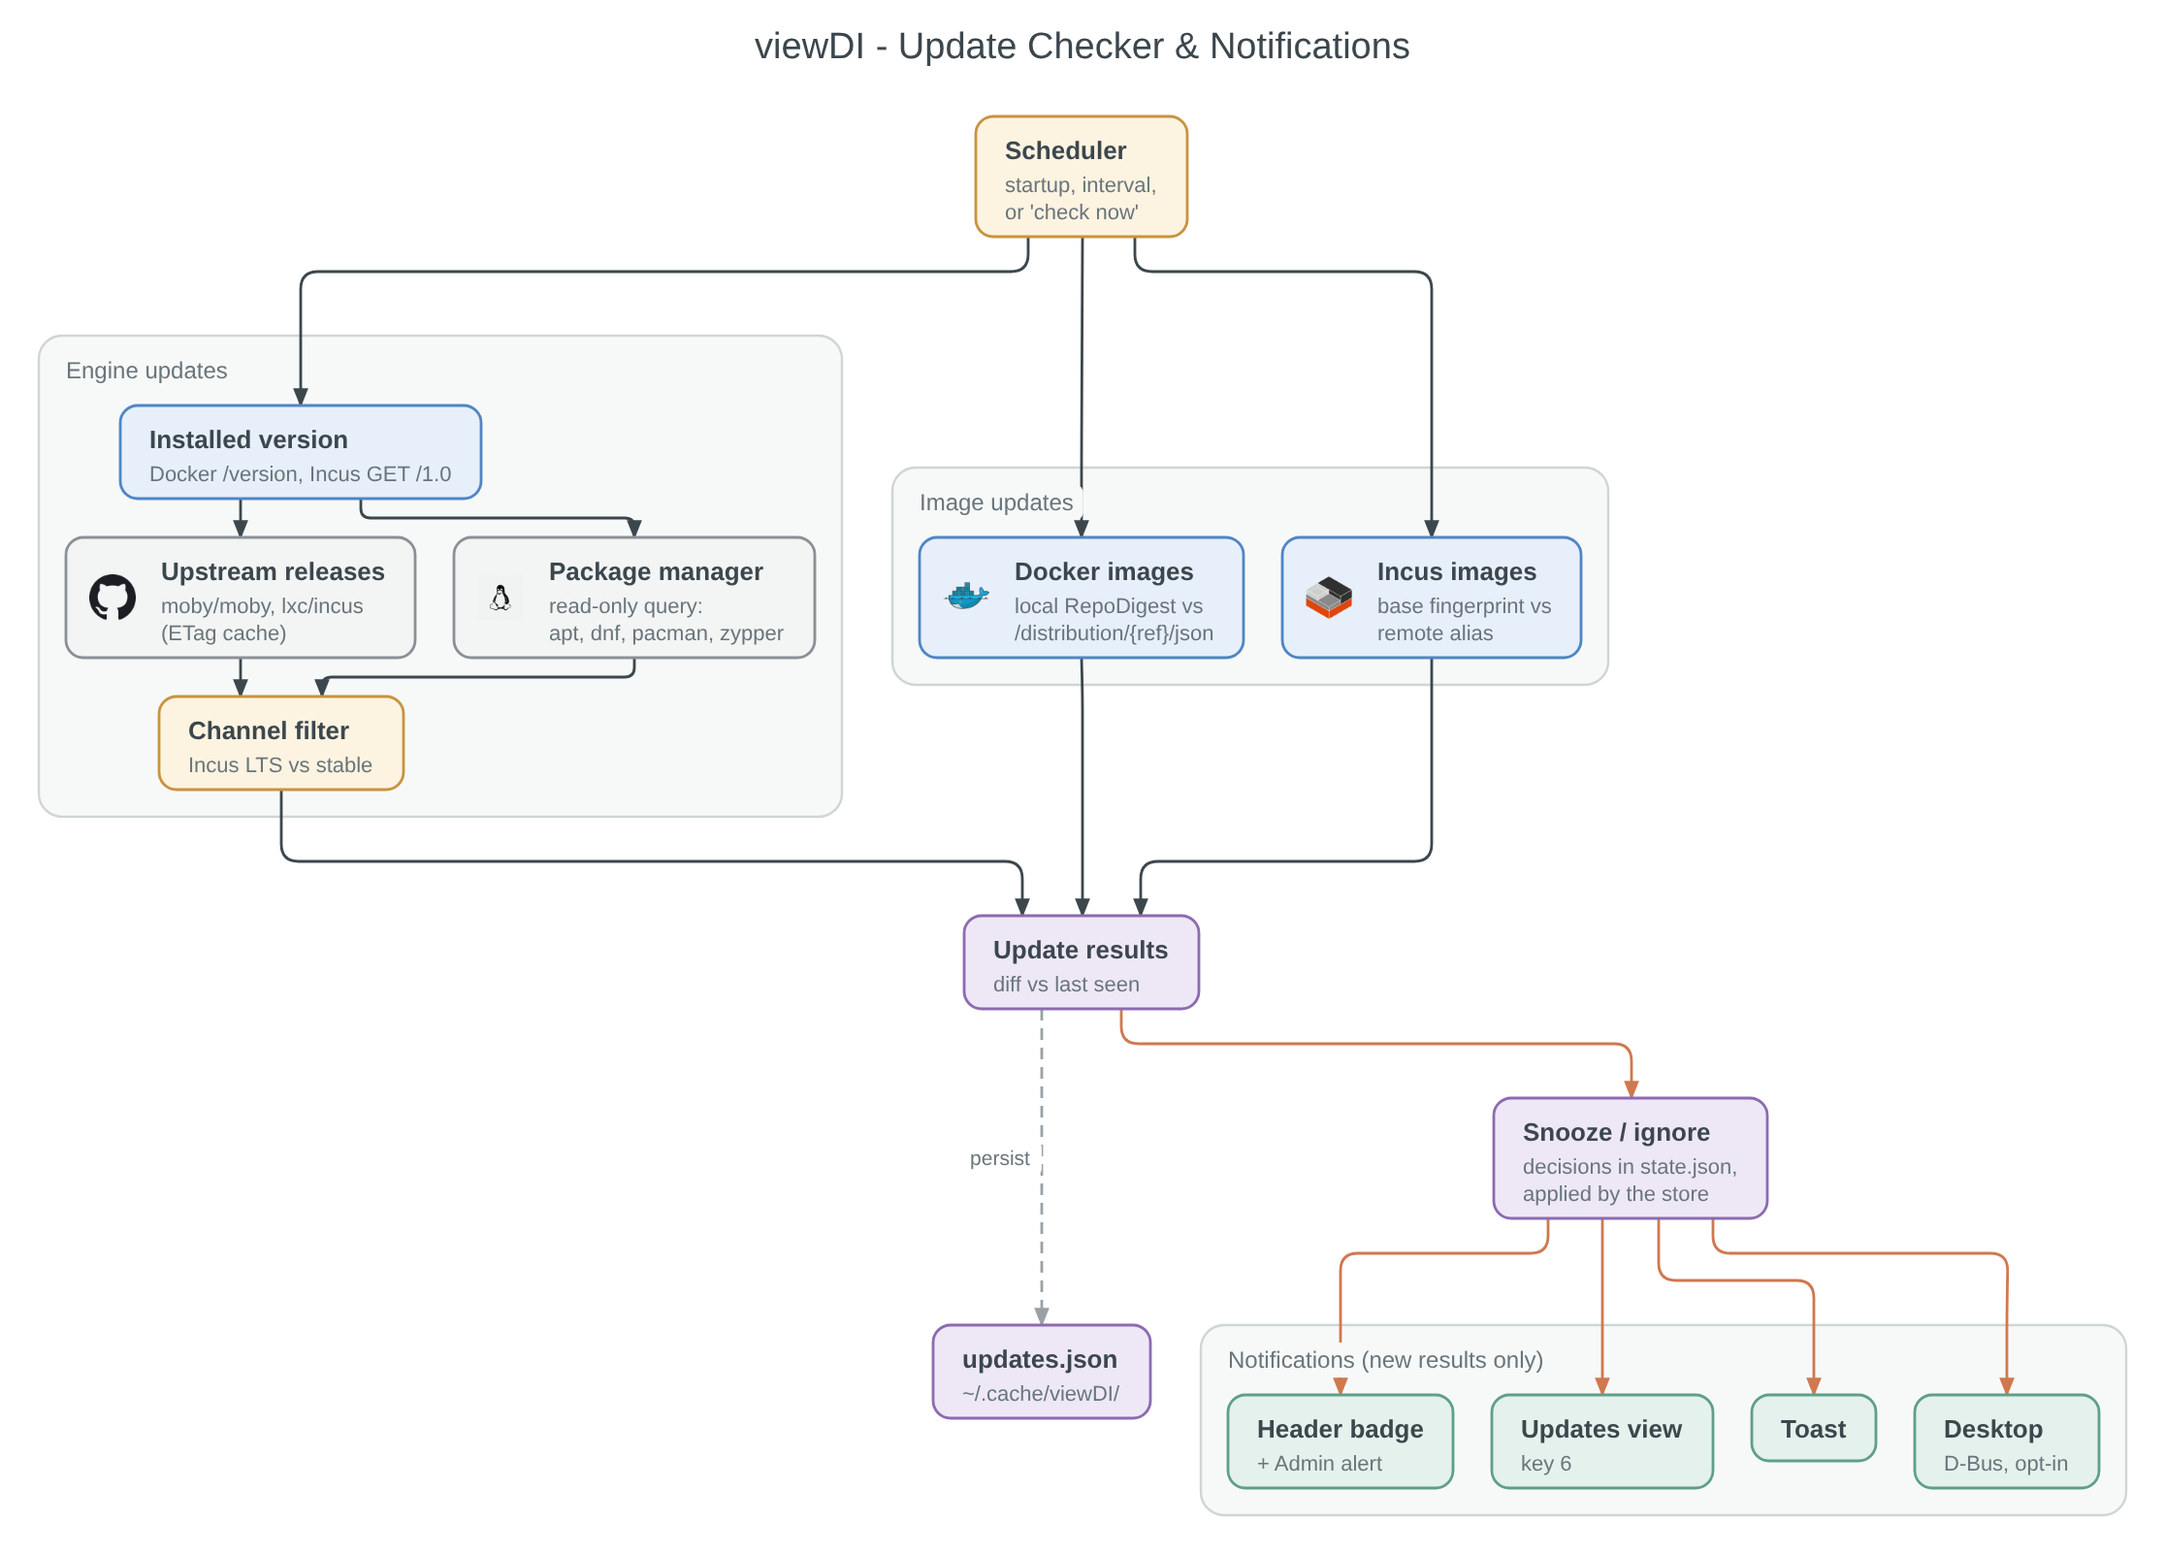
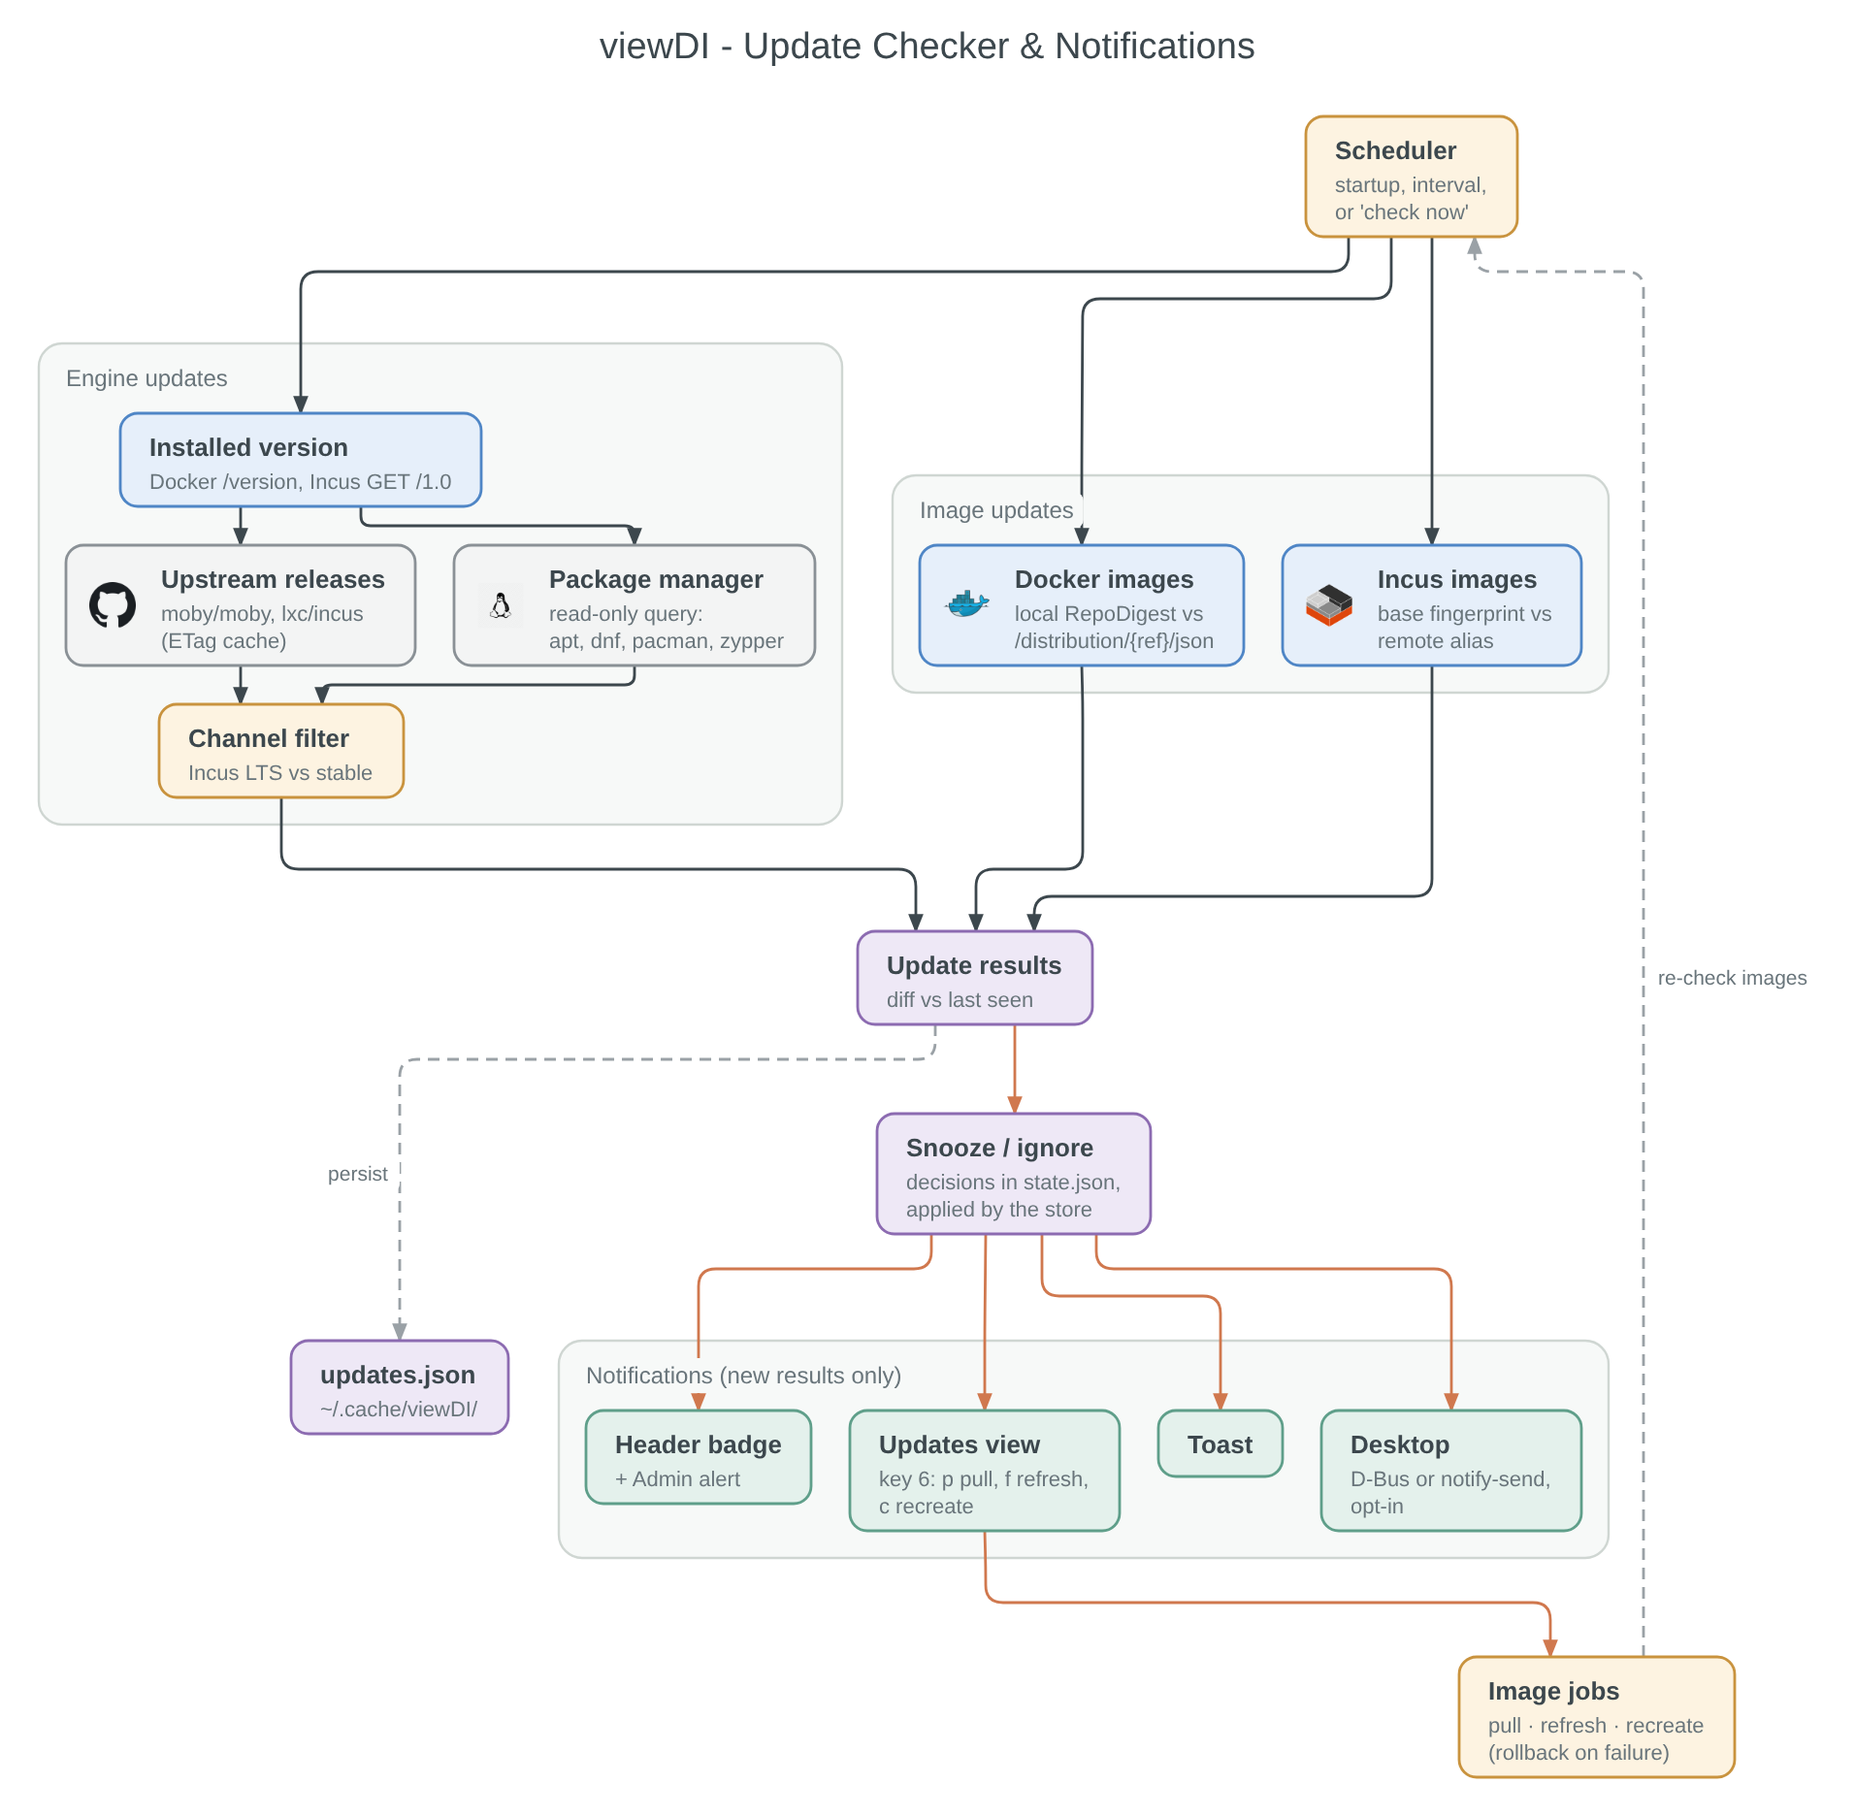
docs: stage 6b — image actions, recreate, desktop notifications

diff --git a/docs/03-mockups.md b/docs/03-mockups.md
@@ -378,6 +378,62 @@ Incus 6.0.6 (security), 3 images · 6 for details" and is never repeated.
 ╰──────────────────────────────────────────────────────────────────────────────────────────────────────────────────────╯
 ```
 
+As delivered in Stage 6b (`--mock`, 120×40, after `p` on `nginx:1.27`). `p` pulls a
+Docker image, `f` refreshes an Incus image (the instances keep running on their own
+copy until they are rebuilt), `c` recreates the Docker containers on the new build. A
+pulled image whose containers still run the old build stays listed as
+`pulled · recreate`; once recreated, the image check runs again and the row goes away.
+Compose containers are never recreated here: the footer prints the
+`docker compose up -d` hint instead.
+
+```
+│   ENGINE IMAGE                             INSTANCES              CURRENT → AVAILABLE             STATUS             │
+│ ⬆ dock   ghcr.io/me/api:1.4                web-api                e710618204df → a1b69359dd33     compose            │
+│ ⬆ dock   nginx:1.27                        nginx-proxy            running → pulled 120f57a4ad65   pulled · recreate  │
+│ ⬆ incus  images:debian/bookworm/default    web-lab, ci-runner     20261020_05:24 → 20261028_05:24                    │
+│                                                                                                                      │
+│ pulled    sha256:120f57a4ad650d5809f2fbf5cbbbd48b76d3b4df5225abf4040860498e25428d                                    │
+│ stale     nginx-proxy                                                                                                │
+│ actions   c recreate the containers on the pulled build                                                              │
+╰──────────────────────────────────────────────────────────────────────────────────────────────────────────────────────╯
+ enter release notes  p pull image  f refresh image  c recreate  z snooze  I ignore version                     ? help
+```
+
+`c` first shows what is kept, then asks to confirm (80×24 frame). The recreate job pulls,
+stops, renames the container `<name>-old`, creates and starts the new one and removes
+the old one only once the new one runs; on any failure the old one gets its name back
+and is started again (Jobs shows `rolling back`).
+
+```
+╭───────────────────────────────────────────────────────────────────╮
+│                                                                   │
+│  Recreate 1 container on nginx:1.27                               │
+│                                                                   │
+│  image    nginx:1.27  00a214c9e65b → 120f57a4ad65 (pulled first)  │
+│                                                                   │
+│  nginx-proxy  kept:                                               │
+│    name     nginx-proxy                                           │
+│    env      0 variables (values not shown)                        │
+│    ports    80→80/tcp, 443→443/tcp                                │
+│    mounts   none                                                  │
+│    networks bridge                                                │
+│    restart  always                                                │
+│    labels   0 labels                                              │
+│                                                                   │
+│  The new build's defaults (CMD, ENV, labels) apply where          │
+│  the container never set its own.                                 │
+│                                                                   │
+│   Cancel    Continue                                              │
+│                                                                   │
+│  y confirm · n/esc cancel · tab switch                            │
+╰───────────────────────────────────────────────────────────────────╯
+```
+
+Desktop notifications (opt-in: `[updates] notify_desktop = true`; in `--mock` only with
+`--mock-notify`) carry the same diff as the toast, filtered by `notify_min_level`:
+"viewDI: 2 updates available", one line per update (at most 8), "Press 6 in viewDI for
+details.", critical urgency when one is a security release.
+
 ## M7 — Modals
 
 ```

diff --git a/README.md b/README.md
@@ -3,7 +3,7 @@
 A native Linux terminal UI that manages, visualises and monitors **Docker** and **Incus**
 side by side.
 
-> Status: **Stage 6a** — both engines connected with live metrics: Admin and Resources
+> Status: **Stage 6b** — both engines connected with live metrics: Admin and Resources
 > dashboards, a sortable, filterable Table view, an interactive Tree view (`4`: engines →
 > networks, projects or Compose projects → instances → ports and mounts, with an
 > inspector that follows the cursor, plus labs: blocks of machines from both engines
@@ -12,10 +12,11 @@ side by side.
 > delete with a confirmation dialog), create forms for Docker containers and Incus
 > containers/VMs, and imports of image tarballs and backups, all tracked with progress
 > in the Jobs view (`5`), and update discovery (`6`): new Docker and Incus releases and
-outdated container images, with a header badge, markers, alerts and a toast. See
+outdated container images, with a header badge, markers, alerts and a toast, image pulls
+and refreshes, Docker recreates with rollback, and opt-in desktop notifications. See
 `docs/04-development-plan.md`.
 
-![Stage 6a demo](docs/demos/stage-6a.gif)
+![Stage 6b demo](docs/demos/stage-6b.gif)
 
 ## Build and run
 
@@ -48,7 +49,11 @@ and `c` cancels one. `n` creates a container or VM: a form with local image sugg
 limits and more. `i` imports a Docker image or rootfs tarball, an Incus backup or an
 Incus image through a file picker. In Updates (`6`): `enter` opens the release notes,
 `z` snoozes an update for 7 days, `I` ignores this version (press again to undo), `U`
-checks now from any view. `--read-only` disables every action. `--mock=chaos` cycles through daemon failures,
+checks now from any view; `p` pulls a Docker image, `f` refreshes an Incus image, `c`
+recreates the Docker containers of an image on the new build after showing what is kept
+(name, env, ports, mounts, networks, restart policy, labels) — if anything fails the
+original container gets its name back and runs again. Compose containers get the
+`docker compose up -d` hint instead. `--read-only` disables every action. `--mock=chaos` cycles through daemon failures,
 `--mock=logflood` floods a log at 1 000 lines/s.
 
 Metrics are read from cgroup v2 files when possible (one pass for every container) and
@@ -62,6 +67,9 @@ are compared by registry digest (Docker, through the daemon, so `docker login` a
 or simplestreams fingerprint (Incus). viewDI never installs anything: it shows the exact
 upgrade command. `[updates] enabled = false` turns every check, and every network call,
 off. `--mock` uses fake sources; `--mock=offline` fails every check.
+`notify_desktop = true` adds a desktop notification for each new batch of updates at or
+above `notify_min_level` (D-Bus, then `notify-send`); `--mock --mock-notify` tries it
+with the fake sources.
 
 Daemons are discovered automatically (`--docker-host`/`DOCKER_HOST`, rootless then
 rootful Docker; `--incus-socket`/`INCUS_SOCKET`, then `unix.socket`, then

diff --git a/CLAUDE.md b/CLAUDE.md
@@ -35,8 +35,8 @@ Design documents (read before making structural changes):
 - `docs/diagrams/src/*.json` — source of every diagram in `docs/img/` (rendered by
   `docs/diagrams/render.mjs`).
 
-Current phase: **Stage 6b in progress** (Updates, split 6a `v0.7.0` / 6b
-`v0.7.1`). Stages 0–4a are tagged up to `v0.5.0`; 4b (create and import flows) is `v0.5.1`,
+Current phase: **Stage 6b done, in review** (Updates, split 6a `v0.7.0` / 6b
+`v0.7.1`); Stage 7 next. Stages 0–4a are tagged up to `v0.5.0`; 4b (create and import flows) is `v0.5.1`,
 the diagram redraw `v0.5.2`, 5a (the Tree view) `v0.6.0` and 5b (labs) `v0.6.1`.
 Do not start implementing a stage until the user validates its task list in
 `docs/04-development-plan.md` (Stage 0 validated 2026-10-28, Stages 1–4 validated
@@ -158,7 +158,8 @@ Useful runtime flags (planned): `--mock[=<scenario>]` (fake engines; scenarios `
 (default), `large`, `chaos`, `logflood`, `offline`), `--read-only`, `--debug` (log to
 `~/.local/state/viewDI/viewdi.log`), `--trace[=<file>]` (tea.Msg trace, replayable in
 tests), `--pprof=<addr>` (localhost only), `--theme <name>`, `--docker-host <uri>`,
-`--incus-socket <path>`, `--refresh <dur>`.
+`--incus-socket <path>`, `--refresh <dur>`, `--mock-notify` (desktop notifications in
+`--mock`, which otherwise never sends any).
 
 ## Configuration (XDG)
 
@@ -254,14 +255,17 @@ Always resolve paths through `internal/config` (which uses `adrg/xdg`); never ha
 
 ## Estado
 
-Updated: 2026-11-01. Keep this section current — it is the handoff between sessions,
+Updated: 2026-11-02. Keep this section current — it is the handoff between sessions,
 harnesses and machines, and the only state another session can see.
 
 - **Done:** Stages 0–6a, tagged `v0.1.0` … `v0.6.1`; 6a merged as PR #10 (`851f39b`),
   tag `v0.7.0` (release note written; the tag is created with the GitHub release, since
   the session proxy refuses tag pushes).
-- **In progress:** Stage 6b (tasks 8–11 in `docs/04-development-plan.md`) on
-  `claude/optimistic-mayer-9c00fw`: pull/refresh jobs, Docker recreate with rollback,
-  desktop notifications. Next: PR review and merge, tag `v0.7.1`; then Stage 7.
+- **In review:** Stage 6b (tasks 8–11 in `docs/04-development-plan.md`, "As built (6b)")
+  on `claude/optimistic-mayer-9c00fw`: `PullImage`/`RefreshImage`/`Recreate` in the
+  engine contract, image jobs with an image re-check, Docker recreate with preview,
+  confirm and rollback, `updates/notifier` (D-Bus, then `notify-send`). Next: PR review
+  and merge, tag `v0.7.1` with the GitHub release; then Stage 7 (validate its task list
+  first).
 - **Tag numbering:** 4a `v0.5.0`, 4b `v0.5.1`, diagram redraw `v0.5.2`, 5a `v0.6.0`,
   5b `v0.6.1`, 6a `v0.7.0`, 6b `v0.7.1`.

diff --git a/docs/04-development-plan.md b/docs/04-development-plan.md
@@ -579,6 +579,22 @@ Tasks (6b):
     read-only; chaos scenario "image source hangs"; README, mockups, CLAUDE.md;
     `docs/demos/stage-6a.tape`/`stage-6b.tape`.
 
+As built (6b):
+- The contract gained three methods, not one: `PullImage` (Docker; Incus answers
+  "unsupported"), `RefreshImage` (Incus; Docker answers "unsupported") and `Recreate`
+  (standalone Docker containers). Unsupported calls are a conflict wrapping
+  `engine.ErrUnsupported`, so the contract suite checks them on both engines.
+- After a pull the image is "pulled but not recreated": the checker compares each
+  container's image ID with the local image of its reference and keeps the row (status
+  `pulled · recreate`) for the containers still on the old build, without a new toast.
+  Every successful pull, refresh or recreate triggers an image-only re-check.
+- Recreate keeps the container's own settings and drops what came from the old image
+  (default env, cmd, entrypoint, labels, exposed ports, volumes, healthcheck), so the
+  new build's defaults apply; anonymous volumes are carried over by name.
+- Desktop notifications: one per report, critical urgency when it lists a security
+  update, text sanitised and markup escaped; snoozed and ignored updates never notify.
+  `--mock-notify` is the flag that allows them in `--mock`.
+
 Acceptance criteria:
 - With `updates.enabled = false` a test with a transport and a `Runner` that fail on any
   use proves zero outbound requests and zero subprocesses.

diff --git a/docs/02-architecture.md b/docs/02-architecture.md
@@ -148,6 +148,19 @@ which a toast repeats.
   fires only for `New` entries that are visible.
 - Package-manager queries run as read-only subprocesses with a 20 s timeout and
   `LC_ALL=C` for stable parsing; nothing is ever executed with elevated privileges.
+- Acting on an image (6b) goes through the Stage 4 job runner: `p` pulls a Docker
+  reference (`PullImage`), `f` refreshes an Incus alias (`RefreshImage`), `c` recreates
+  the standalone Docker containers of a reference (`Recreate`: stop, rename to
+  `<name>-old`, create, start, remove the old one only once the new one runs; any failure
+  rolls back on a context detached from the job's, so the original keeps its name).
+  Compose containers get their `docker compose … up -d` command and Incus the
+  `incus rebuild` hint instead. A successful job calls `CheckImagesNow`, an image-only
+  re-check that leaves the engine schedule alone; a reference pulled while its containers
+  still run the old build stays listed as "pulled · recreate".
+- Desktop notifications (`updates/notifier`, opt-in with `notify_desktop`) are sent by a
+  `tea.Cmd` from the app for the visible `New` entries at or above `notify_min_level`:
+  `org.freedesktop.Notifications.Notify` on a short-lived session-bus connection, then
+  `notify-send`, then one debug-log line. `--mock` never notifies without `--mock-notify`.
 
 ### 4.6 Rendering & throttling
 - UI tick: metrics redraw at a configurable rate (default 1 Hz, max 4 Hz); logs redraw
